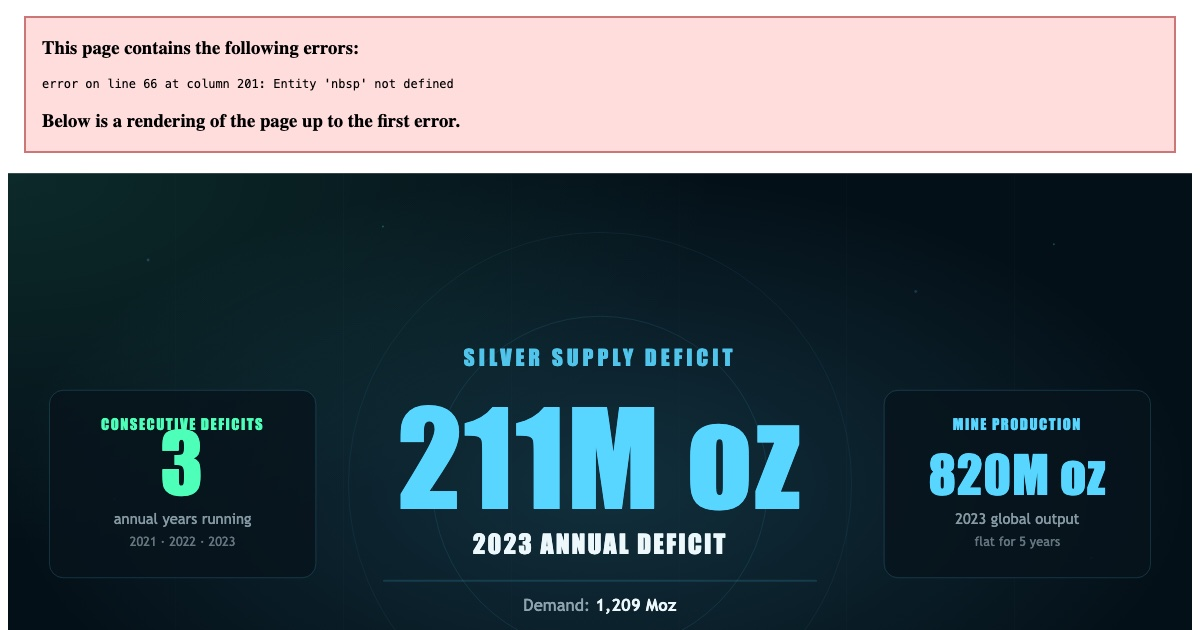
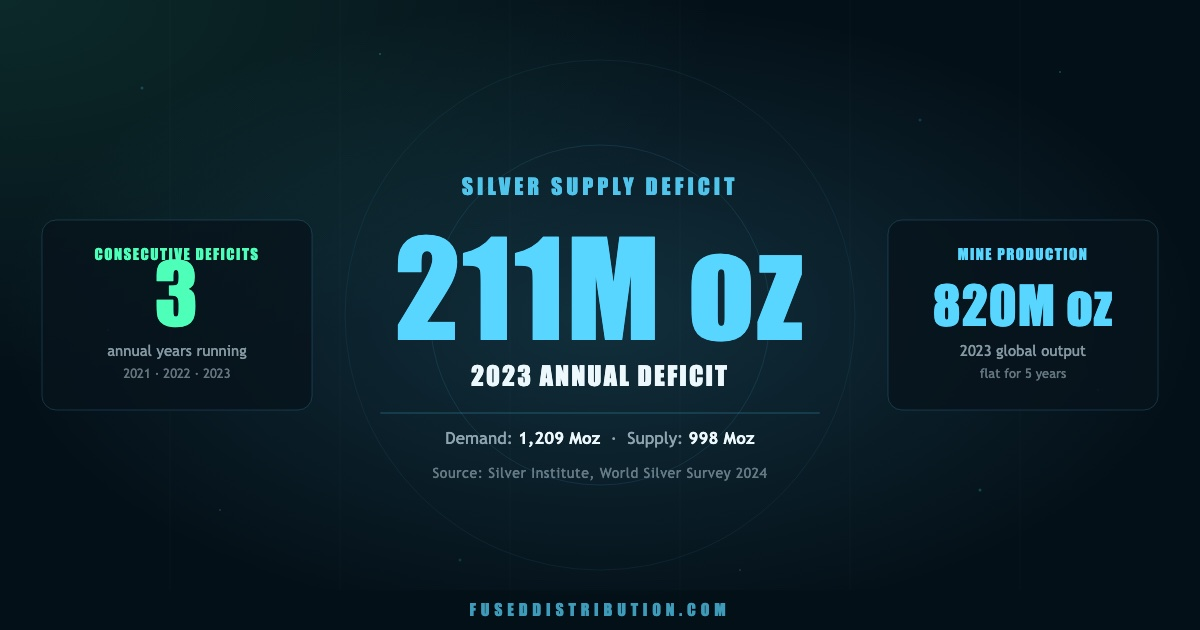
fix: replace &nbsp; with &#160; in hero SVGs — XML parse error broke hero images
SVG is XML; &nbsp; is an HTML entity and not defined in XML/SVG namespace.
Both 6/4 hero.svg files had &nbsp; as separator dots, causing browser parse errors.
Also regenerated hero.jpg from fixed SVGs, and updated all posts.json image
paths from hero.svg to hero.jpg for card thumbnails.

diff --git a/blog/BLOG-SOP.md b/blog/BLOG-SOP.md
@@ -154,6 +154,11 @@ Chart math:
 
 File: `blog/[slug]/hero.svg` — `width="1200" height="630" viewBox="0 0 1200 630"`
 
+**SVG XML rules (critical — browser will show parse error if violated):**
+- NEVER use `&nbsp;` — SVG is XML, HTML entities are not defined. Use `&#160;` for non-breaking space.
+- NEVER use `&middot;`, `&bull;`, `&mdash;`, etc. Use numeric entities: `&#183;`, `&#8226;`, `&#8212;`
+- Only valid XML entities are: `&amp;` `&lt;` `&gt;` `&quot;` `&apos;` — everything else must be numeric (`&#NNN;`)
+
 **Required elements:**
 - Background: `#041018` fill + cyan radial glow center + green radial glow top-left
 - Grid: 6 vertical lines at x=170,340,510,680,850,1020 — `rgba(255,255,255,0.022)`
